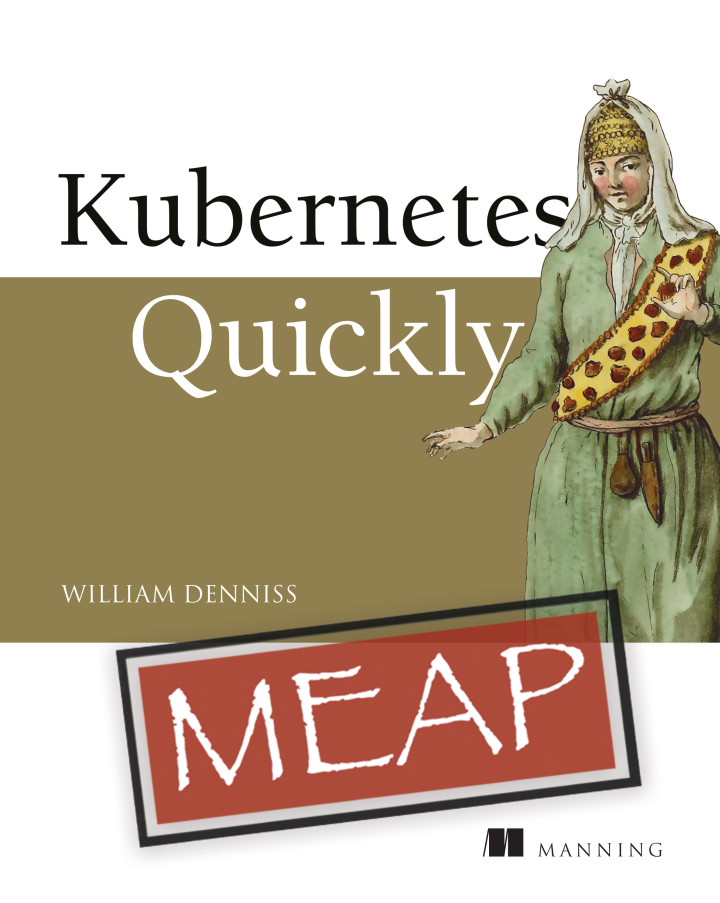
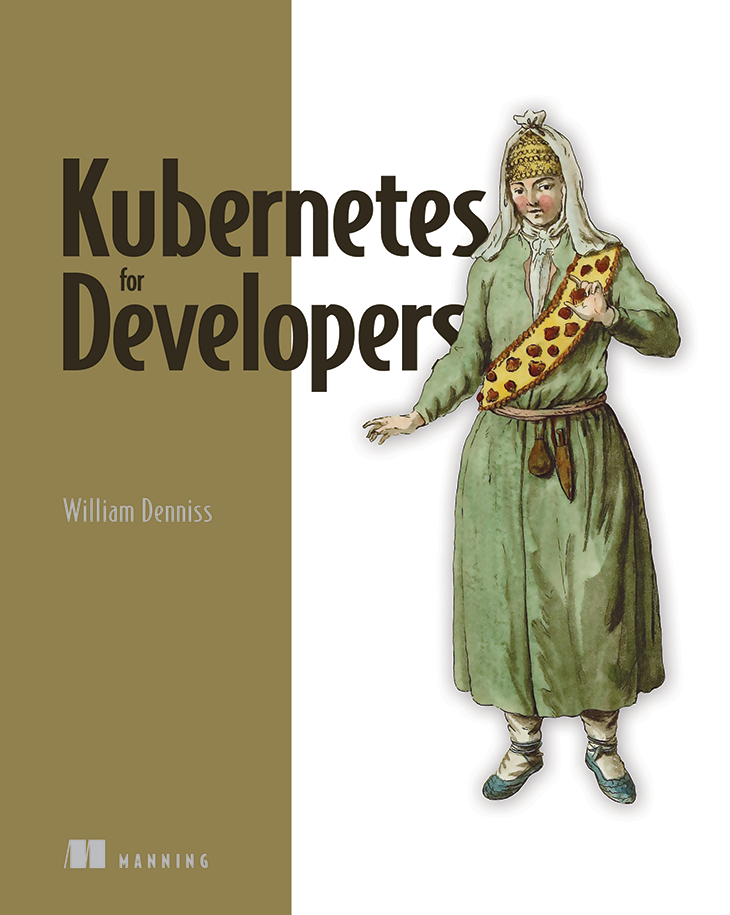
Rename book to Kubernetes for Developers

diff --git a/README.md b/README.md
@@ -1,7 +1,7 @@
-# Kubernetes Quickly
+# Kubernetes for Developers
 
 Code samples and experiments to accompany the book
-[Kubernetes Quickly](https://www.manning.com/books/kubernetes-quickly),
+[Kubernetes for Developers](https://www.manning.com/books/kubernetes-for-developers),
 by William Denniss.
 
 *This is not an officially supported Google product*
